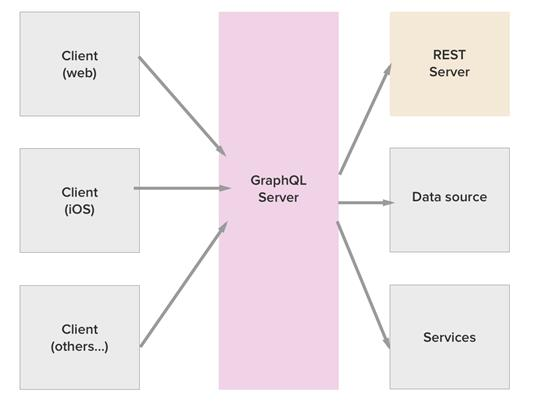
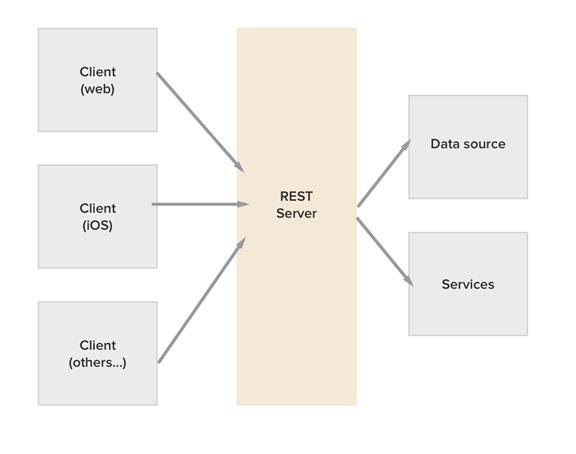
Added some more slides

diff --git a/presentation.md b/presentation.md
@@ -17,8 +17,6 @@ class: center, middle
 
 * Who is using it ?
 
-* Advantages and Disadvantages of GraphQl
-
 ---
 
 class: center, middle
@@ -133,5 +131,276 @@ Problems with rest APIS
 
 ---
 
-# Why GraphQL ?
+# A news feed example
+
+![architecture](images/newsfeed.png)
+
+---
+
+# A news feed example
+
+Two Resources
+
+* Users
+
+* Posts
+
+---
+
+# A news feed example
+
+A REST API for it
+
+```
+
+POST /posts
+GET /posts/limit
+DELETE /posts/postId
+
+...
+
+POST /users
+GET /users/limit
+DELETE /users/userId
+
+
+```
+---
+
+# A news feed example
+
+JSON response for query `Get /posts?limit=10`
+
+```
+{
+    "posts" : [
+        {
+            "id" : 1,
+            "title" : "hello world"
+            "author_id" : 29,
+            "likedCount" : 3,
+            "likedBy" : [1 ,3]
+        },
+        ...
+        ...
+    ]
+}
+
+```
+
+Wait! we need authors name name avatar url
+
+---
+
+# A news feed example
+
+
+
+`Get /posts?limit=10`
+`Get /users/limit=10`
+
+```
+{
+    "users" : [
+        {
+            "id" : 1,
+            "name" : "Finn Jones"
+            "handle" : "ironfist,
+            "age" : 29,
+            "avatar_url" : "/avatar/url.jpg"
+        },
+        ...
+        ...
+    ]
+}
+
+```
+
+So make another request to get authors.
+Wait! that is not in list.
+
+---
+
+# A news feed example
+
+
+
+`Get /posts?limit=10`
+
+`Get /users/limit=30`
+
+```
+{
+    "users" : [
+        ...
+        ...
+        {
+            "id" : 30,
+            "name" : "Thomas Grant Gustin"
+            "handle" : "flash,
+            "age" : 27,
+            "avatar_url" : "/avatar/url.jpg"
+        }
+    ]
+}
+
+```
+
+So increase the limit.
+
+Great!
+
+But wait !!!
+
+
+---
+
+# A news feed example
+
+* We have to do a seperate request for each post to get information about it other  (**Multiple Round trips**)
+
+* We are interestd only in `name` and `avatar` still get other fields (**Overfetching data**)
+
+
+
+
+
+        Hhnnggghhh 😖
+
+---
+
+# A news feed example
+
+Common approaches to work around these issues
+
+* Have GET /users to accept array of ids
+    * GET /users/?ids=[1,2,3,4]
+
+* Accept params to specify fields to return
+    * GET /users?fields=['id', 'name', ...]&ids=[]
+
+* Create an additional custom-endpoints
+    * GET /newsfeed.
+
+    * But it's tightly coupled to your client UI.
+
+
+
+---
+
+# A news feed example
+
+How does GraphQL address these issues ?
+
+Here is and example query and it's response
+
+![query](images/graphqlquery.png)
+
+
+---
+
+# A news feed example
+
+How does GraphQL address these issues ?
+
+Here is and example query and it's response
+
+![query](images/response.jpg)
+**Ask for what you need, get exactly that**
+
+---
+
+# GraphQl Componets
+
+* **Schema**
+* **Query**
+* **Mutations**
+* **Fields**
+* **Argument**
+
+
+---
+
+# GraphQl Componets
+
+* **Schema**
+
+    Every graphql server defines a set of types which describe the set of possible data you can query from that server.
+
+---
+
+# GraphQl Componets
+
+* **Query**
+
+    Queris are to fetch data from server. It typicaly contain two things
+
+    1. Feilds
+    2. Argument
+
+    ```
+    {
+     hero (id: 123){
+            name
+            friends {
+                name
+            }
+        }
+    }
+    ```
+---
+
+# GraphQl Componets
+
+* **Mutations**
+
+    Mutations are to modify the data on server.
+
+---
+
+# Advantages
+
+* More Elegant Data Retrieval
+
+* Better Query Efficiency
+
+* Only one endpoint
+
+* Type safety
+
+    ...
+
+    ...
+
+
+---
+
+# DEMO
+
+
+
+---
+
+# Who are using it ?
+
+Well, It's not even possible to list all organizations who have adapted GraphQl.
+
+Some of the name's are
+
+    * Facebook ( obviously )
+    * Github
+    * Coursera
+    * Myntra
+    * pinterest
+    * and many more ...
+
+
+A full list of GraphQl users is available at http://graphql.org/users/
+
+
+---
+class: center, middle
+
+# Thank You
+
 
